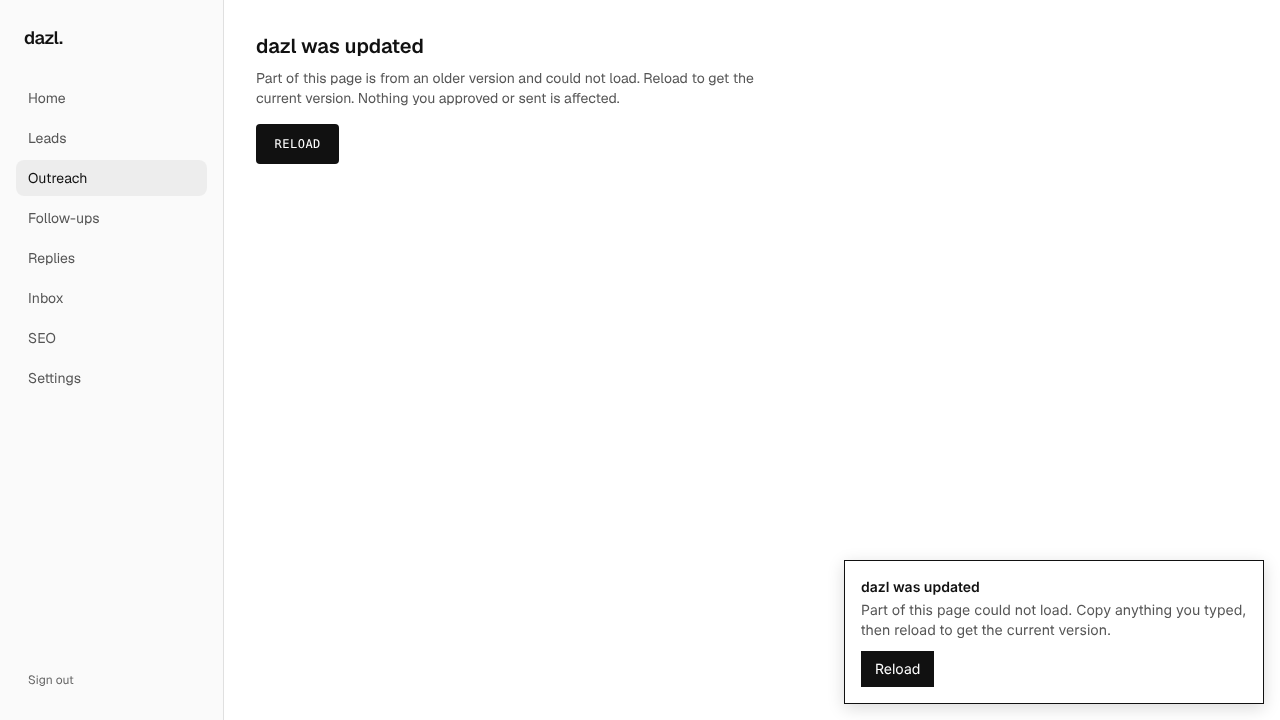
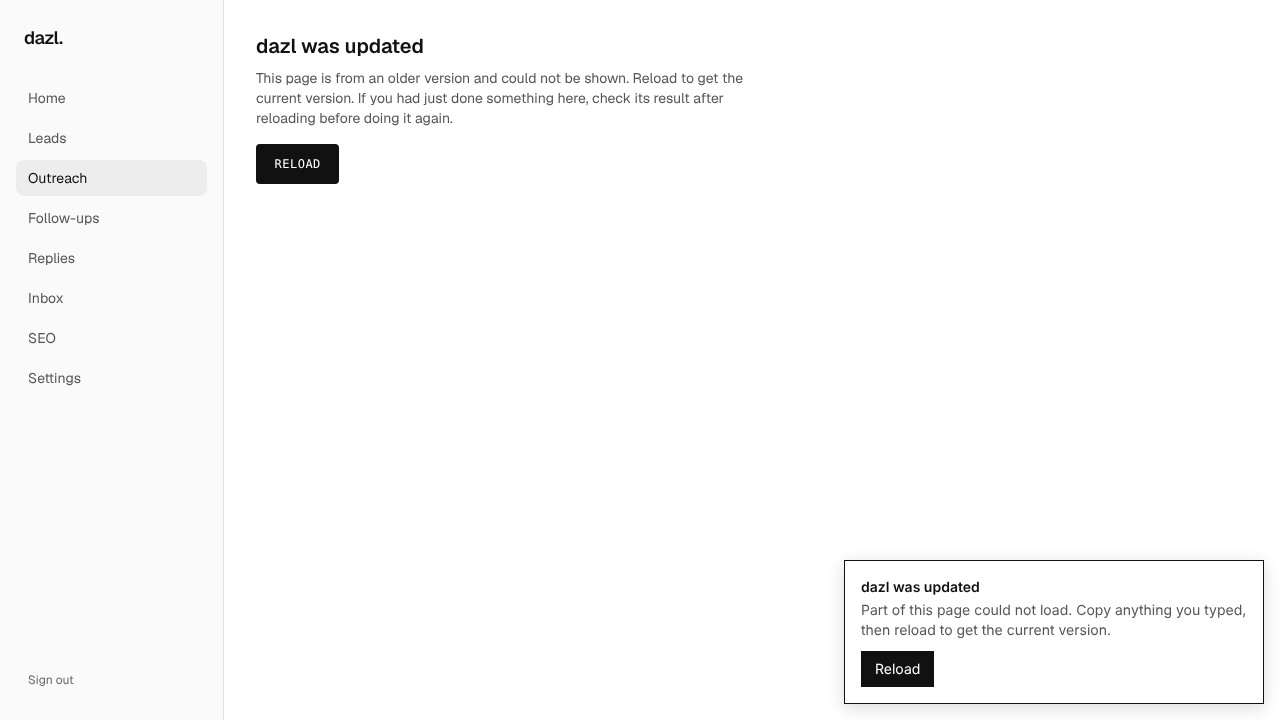
Error boundary copy: describe the display failure only, never claim no effect
Instinct's review of e91371d: the boundary can catch a render error after an
action already succeeded, but said "Nothing was sent or changed" (and "Nothing
you approved or sent is affected" for chunks) with no evidence.

- lib/error-boundary-copy.ts: both messages describe only that the page could
  not be shown and ask the user to reload and check the result before doing it
  again; the generic one says it may already have gone through.
- Reload stays a GET; Try again re-renders; neither submits anything.

Tests: test/error-boundary-copy.test.ts (no no-effect claims in any string);
test/ui/app-error.ui.mjs: approve succeeds, then the page throws while
rendering -> boundary in <main>, uncertainty-safe copy, one write only, Try
again writes nothing. test:smoke:chunks still passes.

Claude-Session: https://claude.ai/code/session_01CafonXdzjwkFYiMRJWtsKo

Changed region(s): [[0.1875, 0.0917, 0.5938, 0.275]]

diff --git a/web/app/app/error.tsx b/web/app/app/error.tsx
@@ -1,21 +1,21 @@
 'use client'
 import { isChunkLoadError } from '@/lib/chunk-recovery'
+import { BOUNDARY_COPY } from '@/lib/error-boundary-copy'
 
 // Any /app page that fails while rendering shows this inside the app layout (the nav stays) instead of a blank page.
-// A missing JavaScript chunk (usually a tab from before a deploy) can only be fixed by loading the current version, so
-// it offers Reload; anything else offers Try again first. Nothing here reloads on its own: the bounded automatic
-// reload lives in lib/chunk-recovery.ts. Neither button resubmits a send, scan or draft.
+// The copy (lib/error-boundary-copy.ts) describes only the display failure: this boundary cannot tell whether an action
+// just taken already succeeded. A missing JavaScript chunk can only be fixed by loading the current version, so it
+// offers Reload; anything else also offers Try again (re-renders the page). Nothing here reloads on its own (the
+// bounded automatic reload lives in lib/chunk-recovery.ts), and neither button submits anything.
 export default function AppError({ error, retry }: { error: unknown; retry: () => void }) {
-  const chunk = isChunkLoadError(error)
+  const copy = isChunkLoadError(error) ? BOUNDARY_COPY.chunk : BOUNDARY_COPY.other
   return (
     <div className="p-8 max-w-xl" role="alert">
-      <h1 className="text-xl font-semibold mb-2">{chunk ? 'dazl was updated' : 'This page could not load'}</h1>
-      <p className="text-sm text-[#555] mb-4">{chunk
-        ? 'Part of this page is from an older version and could not load. Reload to get the current version. Nothing you approved or sent is affected.'
-        : 'Something went wrong while showing this page. Nothing was sent or changed. Try again, or reload the page.'}</p>
+      <h1 className="text-xl font-semibold mb-2">{copy.title}</h1>
+      <p className="text-sm text-[#555] mb-4">{copy.body}</p>
       <div className="flex gap-2">
         <button type="button" className="btn-primary text-xs px-3 py-1.5" onClick={() => location.reload()}>Reload</button>
-        {!chunk && <button type="button" className="btn-ghost text-xs px-3 py-1.5" onClick={() => retry()}>Try again</button>}
+        {copy === BOUNDARY_COPY.other && <button type="button" className="btn-ghost text-xs px-3 py-1.5" onClick={() => retry()}>Try again</button>}
       </div>
     </div>
   )

diff --git a/web/lib/error-boundary-copy.ts b/web/lib/error-boundary-copy.ts
@@ -1,0 +1,13 @@
+// Copy for the /app error boundary (app/app/error.tsx). The boundary only knows that this page failed to show; it
+// cannot see whether an action the user just took (approve, send, scan, draft) already went through. So the copy
+// describes the display failure only, never "nothing was sent/changed", and asks the user to check before repeating.
+export const BOUNDARY_COPY = {
+  chunk: {
+    title: 'dazl was updated',
+    body: 'This page is from an older version and could not be shown. Reload to get the current version. If you had just done something here, check its result after reloading before doing it again.',
+  },
+  other: {
+    title: 'This page could not be shown',
+    body: 'Something went wrong while showing this page. If you had just done something here, it may already have gone through: reload and check its result before doing it again.',
+  },
+} as const

diff --git a/web/test/error-boundary-copy.test.ts b/web/test/error-boundary-copy.test.ts
@@ -1,0 +1,12 @@
+import { test } from 'node:test'
+import assert from 'node:assert/strict'
+import { BOUNDARY_COPY } from '../lib/error-boundary-copy.ts'
+
+// Instinct #240: the boundary has no receipt of what an action did, so it must never promise "no effect".
+test('error boundary copy never claims an action had no effect, and asks to check before repeating', () => {
+  for (const c of Object.values(BOUNDARY_COPY)) {
+    const all = `${c.title} ${c.body}`
+    assert.doesNotMatch(all, /nothing (was|is|has been) (sent|changed|affected)|not affected|no effect|nothing you approved/i)
+    assert.match(c.body, /check its result .*before doing it again/i)
+  }
+})
